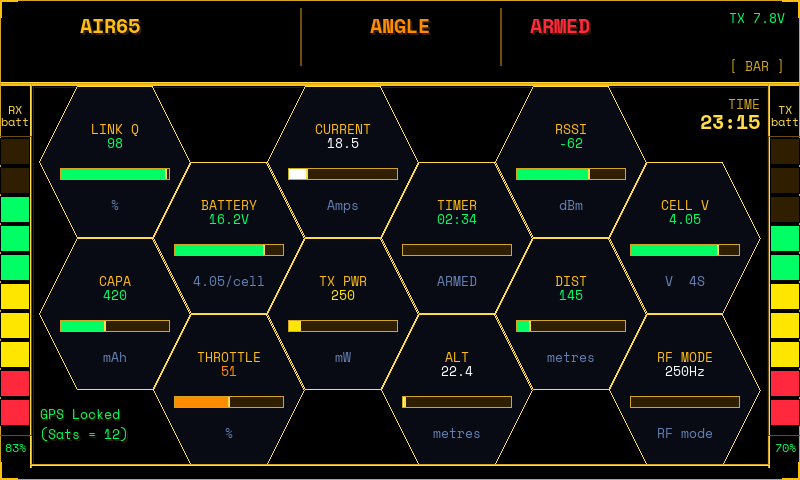
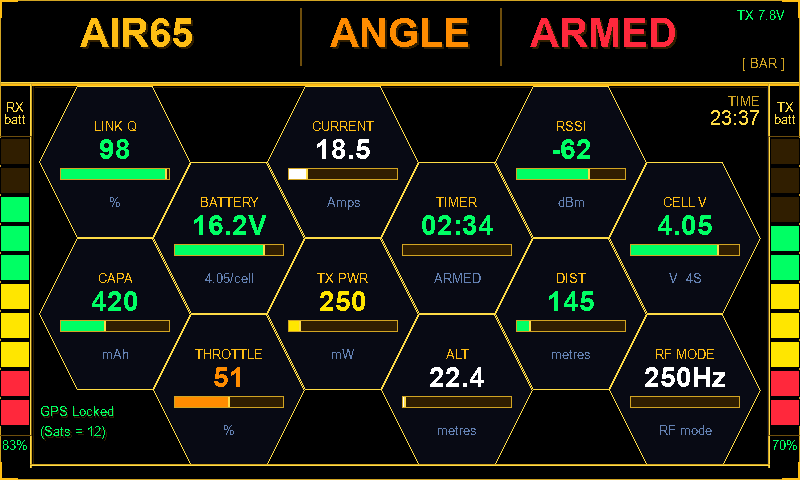
Refresh screenshots and update documentation for font sizing
- Regenerated NUM/BAR/GAUGE screenshots with latest emulator rendering
- Increased BAR mode numeric value size
- Increased NUM and GAUGE value sizes
- Enlarged AIR65/ANGLE/ARMED header labels (bold)
- Updated README screenshots section to note latest font-sizing pass

diff --git a/README.MD b/README.MD
@@ -386,9 +386,13 @@ python dist/take_screenshots.py
 
 Output is saved to `assets/screenshots/`.
 
+Screenshot font mapping follows the Lua widget flags used in `main.lua` (`SMLSIZE`, `MIDSIZE`, `DBLSIZE`, and `BOLD`) so text weight/scale in emulator captures is aligned with the radio UI.
+
 ---
 
 ## Screenshots
+
+These are the latest regenerated emulator captures, including the updated font sizing pass (larger header text across modes, larger BAR numeric values, and enlarged NUM/GAUGE value text).
 
 ### Numeric Mode
 Large value readout with label and unit. RX batt (left) and TX batt (right) bars are visible on the side rails, with the time shown in the top-right gap. The persistent GPS status is now shown in the bottom left, as seen below.